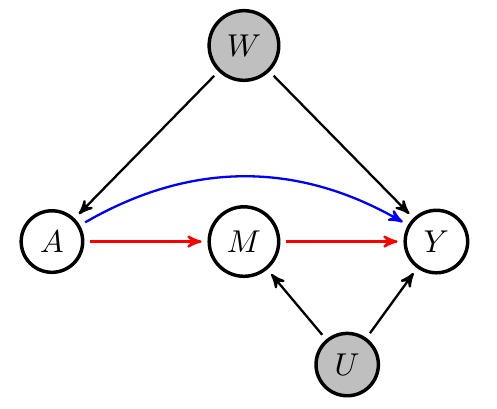
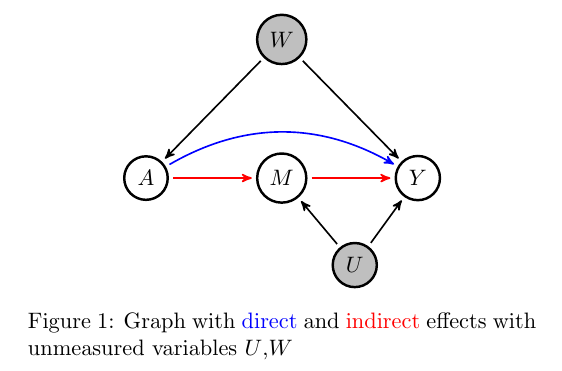
img

diff --git a/research.md b/research.md
@@ -9,7 +9,7 @@ subtitle:
 <img src="https://isabelfulcher.github.io/img/mediation.png"
      style="float: left; margin-right: 10px;"
      width="250" height="200" /> 
-<figcaption> <small> <i> Fig.1 - graph depicting <font color="blue">direct</font> and <font color="blue">indirect</font> effects with unmeasured variables U,W </i> </small> </figcaption>
+<figcaption> <small> <i> Fig.1 - graph depicting <font color="blue">direct</font> and <font color="red">indirect</font> effects with unmeasured variables U,W </i> </small> </figcaption>
 </figure>
 Mediation analysis seeks to understand the underlying relationship between an exposure and outcome
 through some intermediate variable. That is, beyond evaluating the total effect of the exposure on outcome,
